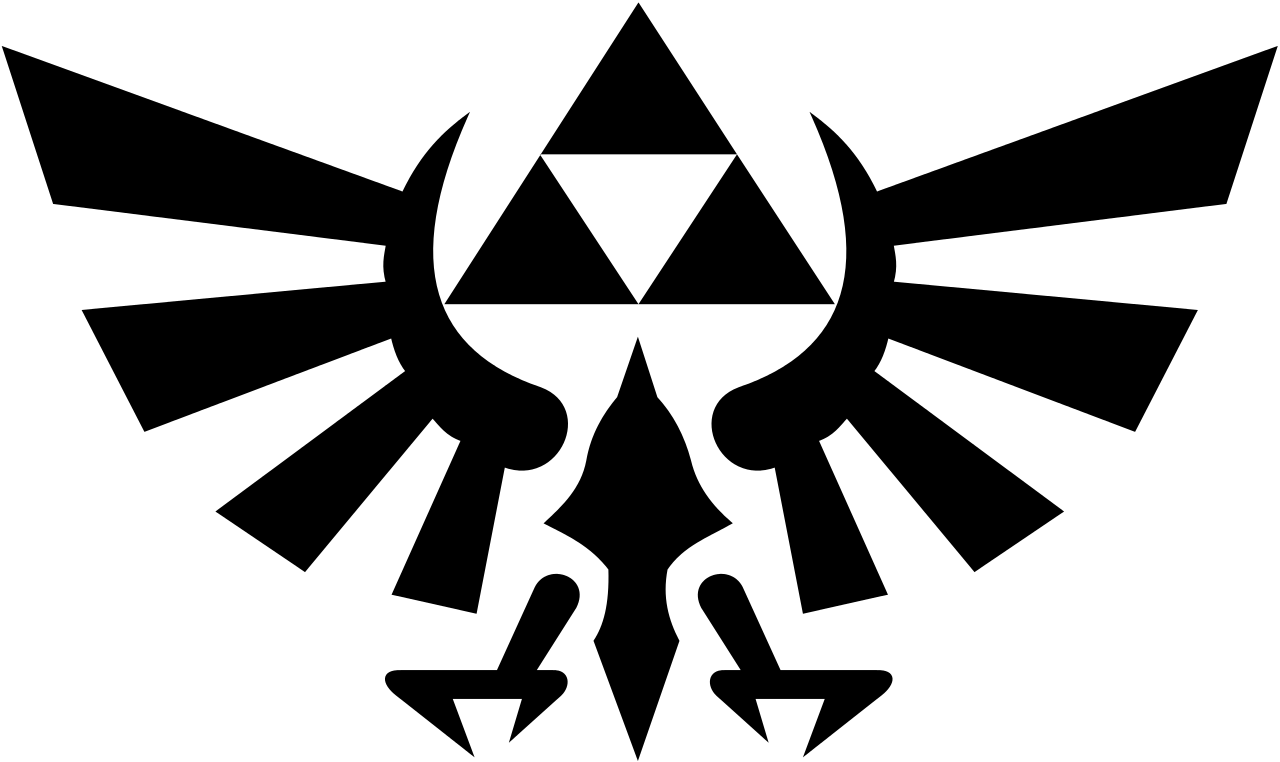
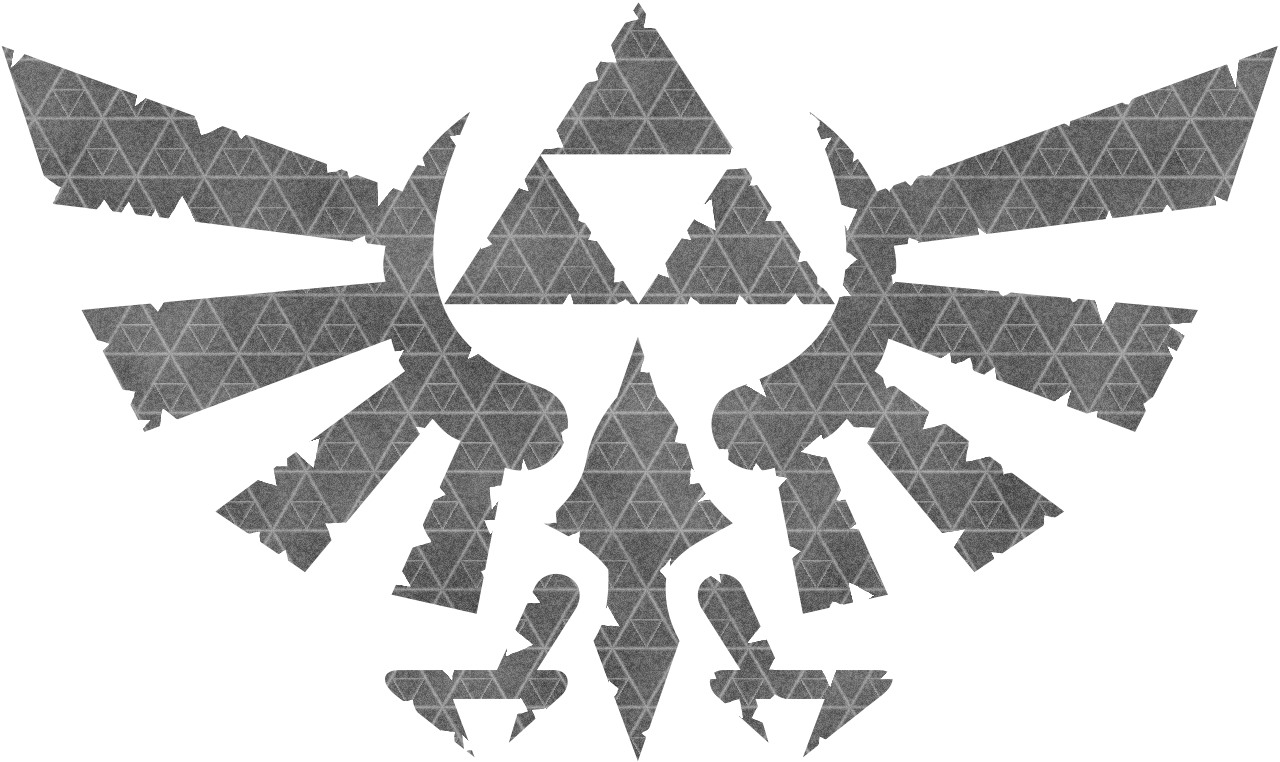
Add distressed stone notches, grain, and Hylian pattern to visualizer background and adjust scale/opacity

diff --git a/style.css b/style.css
@@ -86,8 +86,10 @@ body {
     background-size: cover;
     background-position: center;
     background-repeat: no-repeat;
+    transform: scale(0.85);
+    transform-origin: center center;
     filter: invert(0.65);
-    opacity: 0.14;
+    opacity: 0.126;
     pointer-events: none;
     z-index: 0;
 }
